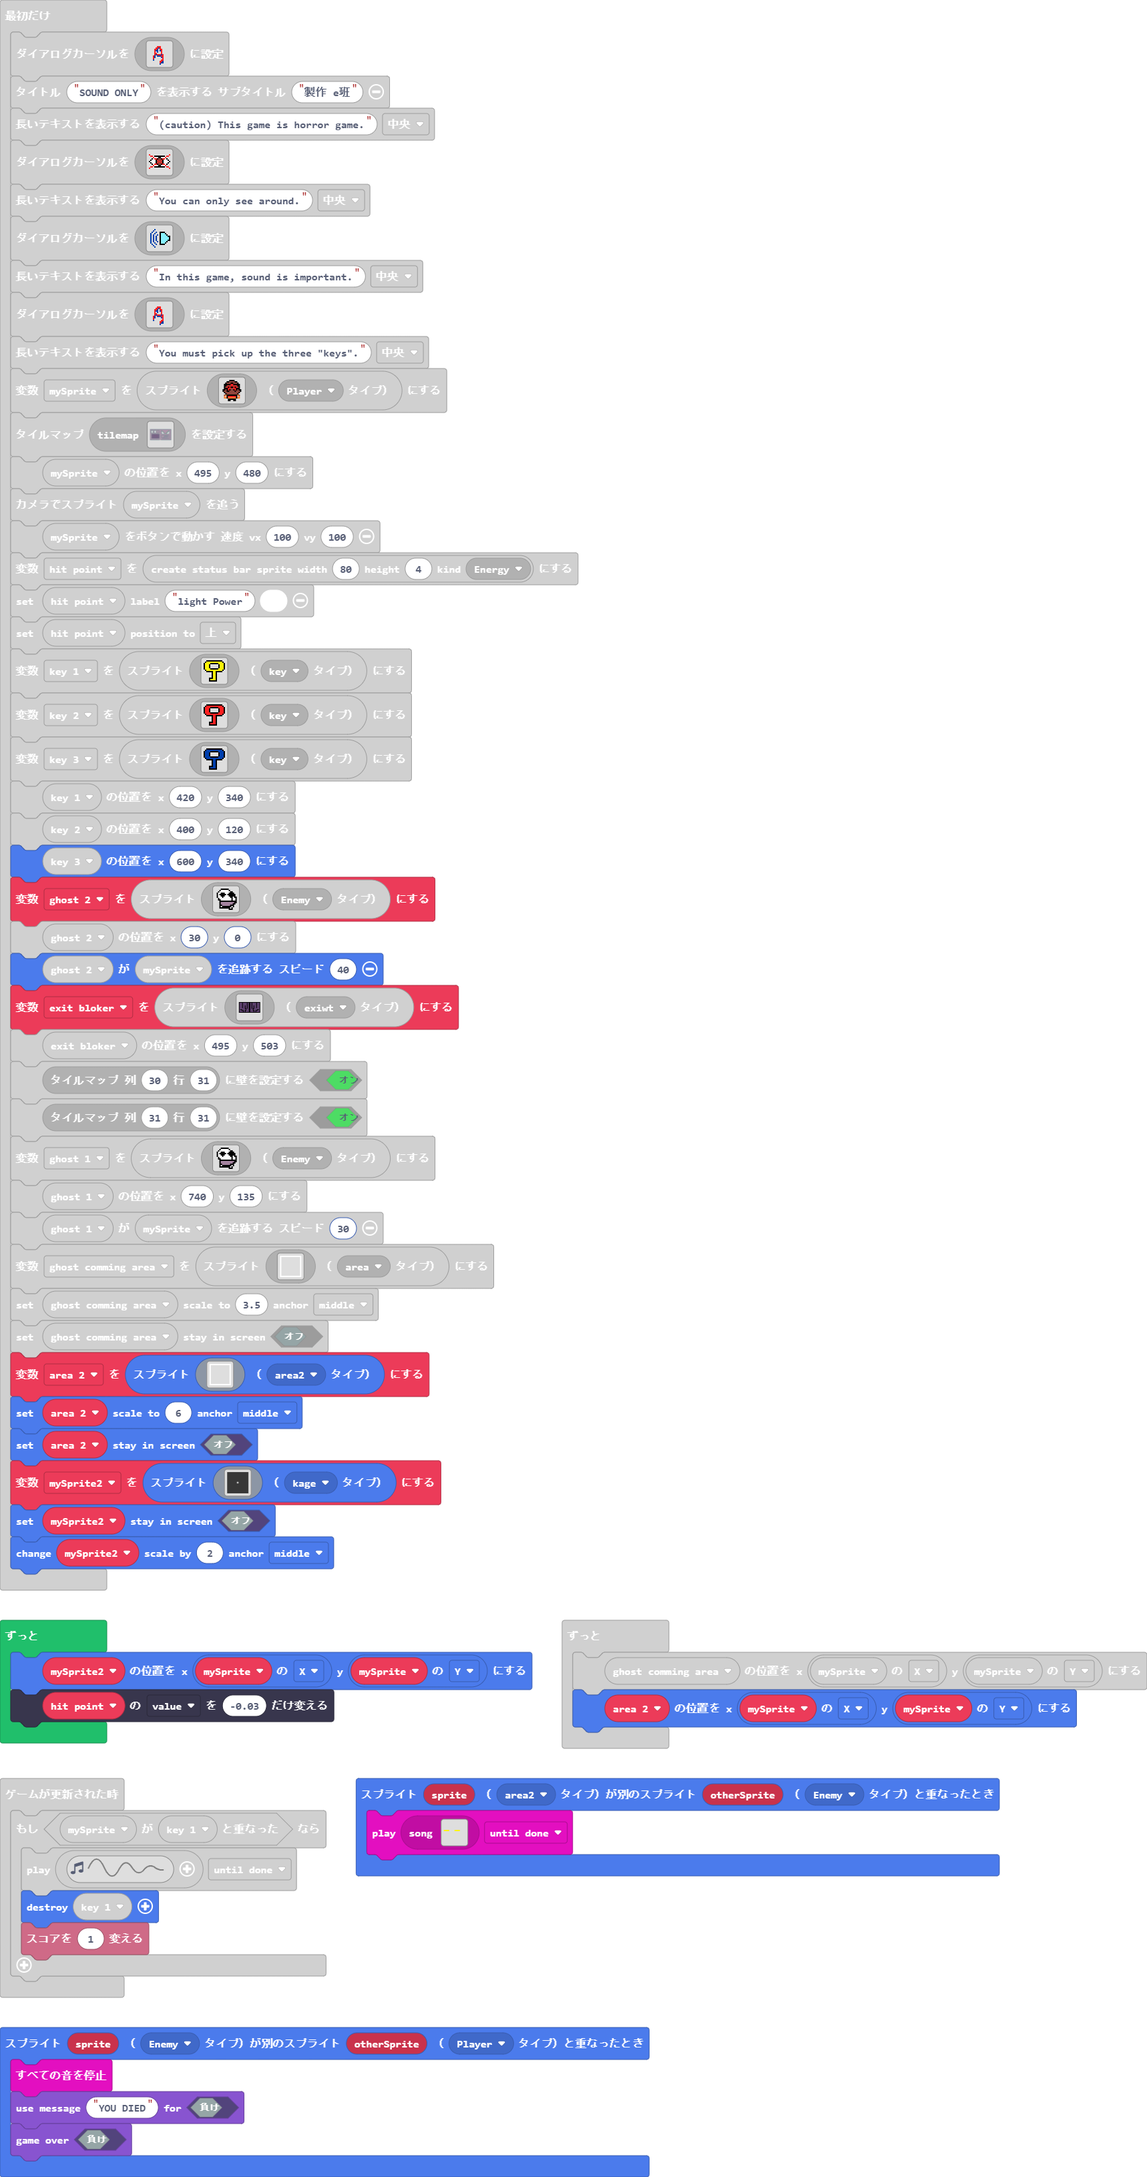
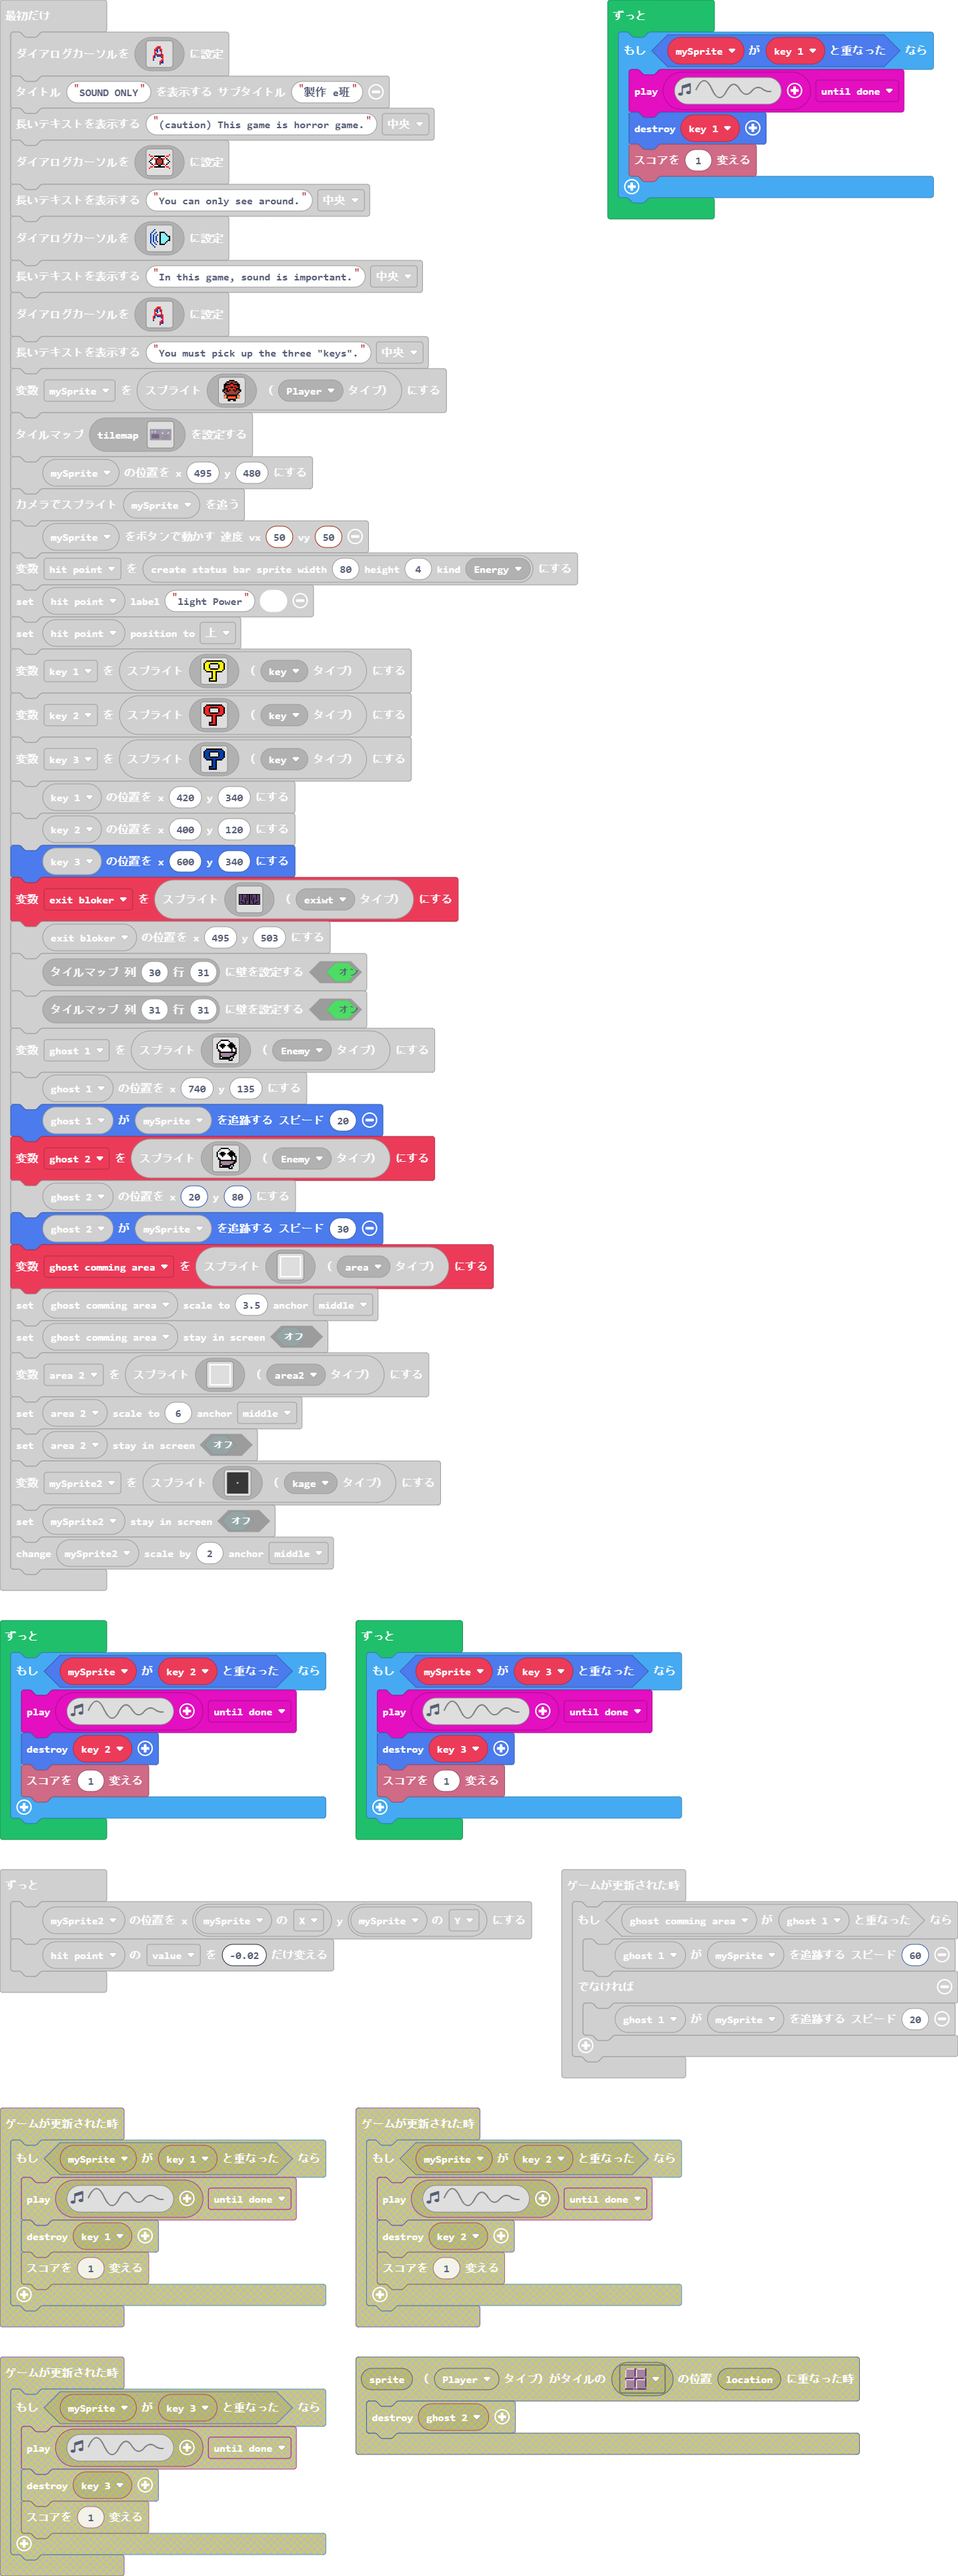
更新 main.blocks, main.ts

diff --git a/main.ts b/main.ts
@@ -13,9 +13,6 @@ scene.onOverlapTile(SpriteKind.Player, sprites.dungeon.floorLight0, function (sp
     game.setGameOverMessage(true, "YOU ALIVED")
     game.gameOver(true)
 })
-scene.onOverlapTile(SpriteKind.Player, sprites.dungeon.floorDark0, function (sprite, location) {
-    sprites.destroy(ghost_2)
-})
 sprites.onOverlap(SpriteKind.area2, SpriteKind.Enemy, function (sprite, otherSprite) {
[1 lines of base64/hex data omitted]
 })
@@ -28,7 +25,6 @@ statusbars.onZero(StatusBarKind.Energy, function (status) {
     game.setGameOverMessage(false, "You died")
     game.gameOver(false)
 })
-let ghost_2: Sprite = null
 game.setDialogCursor(img`
     . . . . . . . . . . . . . . . . 
     . . . . . . . . . . . . . . . . 
@@ -127,7 +123,7 @@ let mySprite = sprites.create(img`
 tiles.setCurrentTilemap(tilemap`レベル1`)
 mySprite.setPosition(495, 480)
 scene.cameraFollowSprite(mySprite)
-controller.moveSprite(mySprite, 100, 100)
+controller.moveSprite(mySprite, 50, 50)
 let hit_point = statusbars.create(80, 4, StatusBarKind.Energy)
 hit_point.setLabel("light Power", 1)
 hit_point.positionDirection(CollisionDirection.Top)
@@ -137,16 +133,16 @@ let key_3 = sprites.create(assets.image`myImage`, SpriteKind.key)
 key_1.setPosition(420, 340)
 key_2.setPosition(400, 120)
 key_3.setPosition(600, 340)
-ghost_2 = sprites.create(assets.image`myImage4`, SpriteKind.Enemy)
-ghost_2.setPosition(30, 0)
-ghost_2.follow(mySprite, 40)
 let exit_bloker = sprites.create(assets.image`myImage2`, SpriteKind.exiwt)
 exit_bloker.setPosition(495, 503)
 tiles.setWallAt(tiles.getTileLocation(30, 31), true)
 tiles.setWallAt(tiles.getTileLocation(31, 31), true)
 let ghost_1 = sprites.create(assets.image`myImage4`, SpriteKind.Enemy)
 ghost_1.setPosition(740, 135)
-ghost_1.follow(mySprite, 30)
+ghost_1.follow(mySprite, 20)
+let ghost_2 = sprites.create(assets.image`myImage4`, SpriteKind.Enemy)
+ghost_2.setPosition(20, 80)
+ghost_2.follow(mySprite, 30)
 let ghost_comming_area = sprites.create(img`
     1 1 1 1 1 1 1 1 1 1 1 1 1 1 1 1 
     1 . . . . . . . . . . . . . . 1 
@@ -321,16 +317,9 @@ mySprite2.setStayInScreen(false)
 mySprite2.changeScale(2, ScaleAnchor.Middle)
 game.onUpdate(function () {
     if (ghost_comming_area.overlapsWith(ghost_1)) {
-        ghost_1.follow(mySprite, 80)
+        ghost_1.follow(mySprite, 60)
     } else {
         ghost_1.follow(mySprite, 20)
-    }
-})
-game.onUpdate(function () {
-    if (mySprite.overlapsWith(key_1)) {
-        music.play(music.createSoundEffect(WaveShape.Sine, 1069, 2731, 255, 0, 100, SoundExpressionEffect.Vibrato, InterpolationCurve.Curve), music.PlaybackMode.UntilDone)
-        sprites.destroy(key_1)
-        info.changeScoreBy(1)
     }
 })
 game.onUpdate(function () {
@@ -342,14 +331,21 @@ game.onUpdate(function () {
         info.setScore(0)
     }
 })
-game.onUpdate(function () {
+forever(function () {
+    if (mySprite.overlapsWith(key_1)) {
+        music.play(music.createSoundEffect(WaveShape.Sine, 1069, 2731, 255, 0, 100, SoundExpressionEffect.Vibrato, InterpolationCurve.Curve), music.PlaybackMode.UntilDone)
+        sprites.destroy(key_1)
+        info.changeScoreBy(1)
+    }
+})
+forever(function () {
     if (mySprite.overlapsWith(key_2)) {
         music.play(music.createSoundEffect(WaveShape.Sine, 1069, 2731, 255, 0, 100, SoundExpressionEffect.Vibrato, InterpolationCurve.Curve), music.PlaybackMode.UntilDone)
         sprites.destroy(key_2)
         info.changeScoreBy(1)
     }
 })
-game.onUpdate(function () {
+forever(function () {
     if (mySprite.overlapsWith(key_3)) {
         music.play(music.createSoundEffect(WaveShape.Sine, 1069, 2731, 255, 0, 100, SoundExpressionEffect.Vibrato, InterpolationCurve.Curve), music.PlaybackMode.UntilDone)
         sprites.destroy(key_3)
@@ -358,7 +354,7 @@ game.onUpdate(function () {
 })
 forever(function () {
     mySprite2.setPosition(mySprite.x, mySprite.y)
-    hit_point.value += -0.03
+    hit_point.value += -0.02
 })
 forever(function () {
     ghost_comming_area.setPosition(mySprite.x, mySprite.y)
